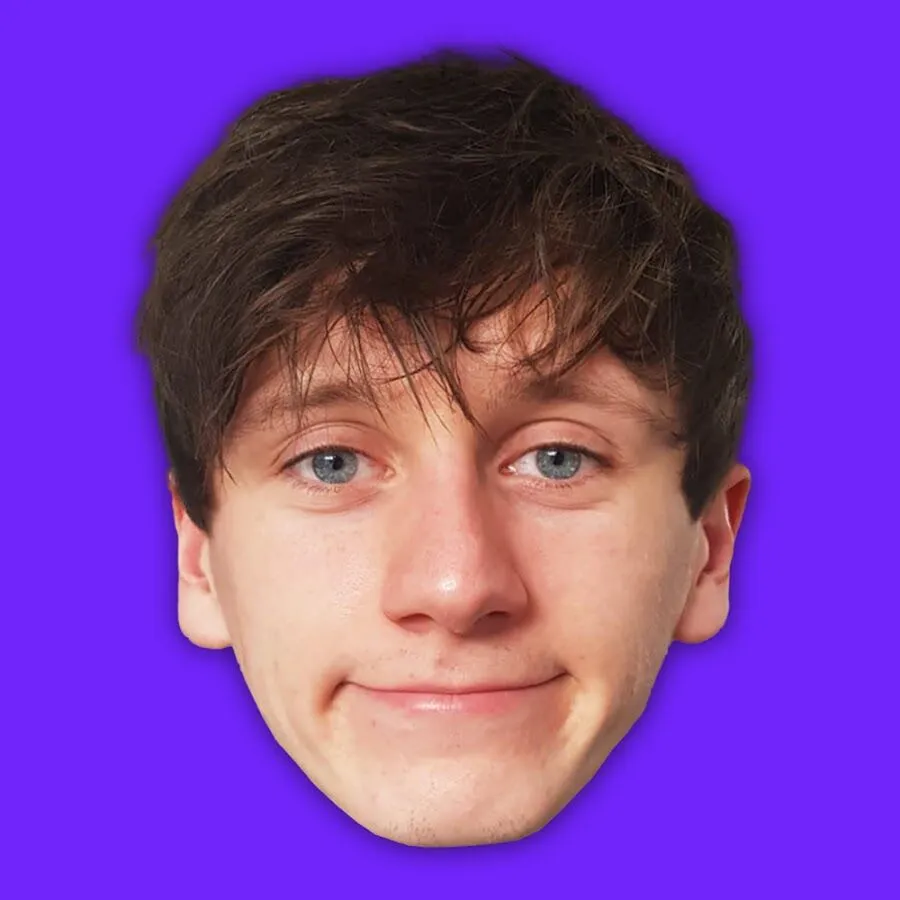
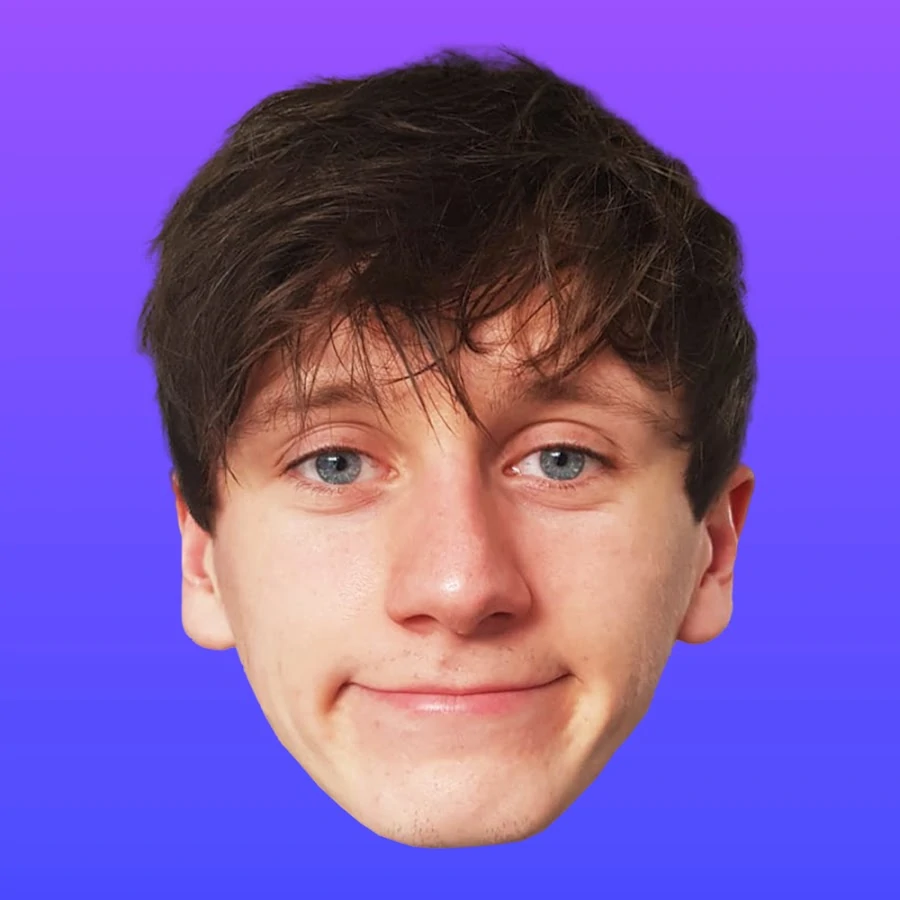
Updated footer + new SVGs

diff --git a/pages/other/changelog.html b/pages/other/changelog.html
@@ -1,2 +1,3 @@
-<!DOCTYPE html><html><head><title>Changelog</title><link rel=stylesheet href=/css/pages/changelog.css /></head> <!-- Only edit line 2 -->
-<h1 id=changelog>Changelog</h1><p>There's no point in explaining the purpose of this file.<br>Only counts from Preview 2 onwards<h1 id=latest-commit>Latest Commit</h1><h2 id=preview-20>Preview 20</h2><ul><li>Released: <code>16/07/2022</code><li>Description: <strong>Updated data graphs</strong></ul><h3 id=modifications>Modifications</h3><ul><li>images<ul><li>Updated the following channels to the latest gradient:<ul><li>Jack Massey Welsh (Tesla)<li><em>50 Character Long Channel Name</em><li>JSAG<li>JSAL<li>JSAS</ul></ul><li>all <code>sub_count</code> and <code>view_count</code> pages<ul><li>Updated the data chart to the channels colour palette</ul></ul><h1 id=commit-history>Commit History</h1><h2 id=preview-19>Preview 19</h2><ul><li>Released: <code>15/07/2022</code><li>Description: <strong>View Count Pages active for all channels</strong></ul><h2 id=preview-18>Preview 18</h2><ul><li>Released: <code>14/07/2022</code><li>Description: <strong>Added View Count Page + Updated homepage</strong></ul><h3 id=modifications>Modifications</h3><ul><li><code>index.html</code><ul><li>Added <code>type="button"</code> attribute to all buttons<li>Disabled and enabled some buttons<li>Added redirect functions to buttons for future use</ul><li><code>navbar.html</code><ul><li>Added an <em>other</em> dropdown to navbar<li>Added "<em>coming soon</em>" note for links with <code>javascript:void(0)</code> as their redirect</ul></ul><h3 id=additions>Additions</h3><ul><li>View Pages<ul><li>Only added for JSAL atm</ul></ul><h2 id=preview-17>Preview 17</h2><ul><li>Released: <code>12/07/2022</code><li>Description: <strong>Updated Navbar</strong></ul><h3 id=modifications>Modifications</h3><ul><li><code>index.html</code><ul><li>Replaced the message <strong>Navbar under development. Site not optimsied for mobile</strong> with <strong>NOTE: There is no mobile support (yet)</strong><li>This message is now written in the navbar, not in index.html</ul></ul><h2 id=preview-16>Preview 16</h2><ul><li>Released: <code>11/07/2022</code><li>Description: <strong>Minor CSS improvements</strong></ul><h3 id=additions>Additions</h3><ul><li><code>/pages/*/index.html</code><ul><li>Added for navigation</ul></ul><h3 id=modifications>Modifications</h3><ul><li><code>JackSucksAtPopUpPirate.webp</code><ul><li>Updated to the latest PFP with the gradient</ul><li><code>footer.js</code><ul><li>Updated footer a bit</ul><li><code>navbar.js</code><ul><li>Added dropdown menus for better navigation and aesthetics</ul><li><code>index.html</code><ul><li>Removed <strong>NEW</strong> tag from <em>Sub Count</em> buttons</ul></ul><h2 id=preview-15>Preview 15</h2><ul><li>Released: <code>07/07/2022</code><li>Description: <strong>Released Subscriber Count page for all channels</strong></ul><h3 id=modifications>Modifications</h3><ul><li>CSS<ul><li><code>abbr[title]</code> now has effect in <code>sub_count.css</code><li>New toggle button in <code>global.css</code><ul><li><em>Not fully implemented yet</em></ul></ul><li><code>/index.html</code><ul><li>All <code>Subscriber Count</code> buttons are no longer disabled</ul><li><code>navbar.js</code> and <code>footer.js</code><ul><li>Only one <code>document.write()</code> function as opposed to multiple for every line</ul></ul><h3 id=additions>Additions</h3><ul><li>All channels have their own JavaScript and HTML files<ul><li>Really nothing else to mention</ul></ul><h2 id=preview-14>Preview 14</h2><ul><li>Released: <code>18/06/2022</code><li>Description: <strong>Updated Subscriber Count pages</strong></ul><h2 id=preview-13>Preview 13</h2><ul><li><em>Version</em>: <code>C13-20220616.2</code><li>Released: <code>16/06/2022</code><li>Description: <strong>Updated some CSS</strong></ul><h2 id=preview-12>Preview 12</h2><ul><li><em>Version</em>: <code>C12-20220616</code><li>Released: <code>16/06/2022</code><li>Description: <strong>Updated images</strong><h3 id=modified>Modified</h3><li>images<ul><li>All images with <code>.jpg</code> are now <code>.webp</code></ul><li>css<ul><li>All images now have drop shadows (may conflict)<li>All images on <code>index.html</code> have rounded corners</ul></ul><h2 id=preview-11>Preview 11</h2><ul><li><em>Version</em>: <code>C11-20220615.2</code><li>Released: <code>15/06/2022</code><li>Description: <strong>Added error pages + Minor changes</strong></ul><h2 id=preview-10>Preview 10</h2><ul><li><em>Version</em>: <code>C10-20220615</code><li>Released: <code>15/06/2022</code><li>Description: <strong>Custom scrollbar + footer and header improvements</strong></ul><h2 id=preview-9>Preview 9</h2><ul><li><em>Version</em>: <code>C9-20220609</code><li>Released: <code>09/06/2022</code></ul><h2 id=preview-8>Preview 8</h2><ul><li><em>Version</em>: <code>C8-20220605</code><li>Released: <code>05/06/2022</code><li>Description: <strong>Improvements to Sub Count pages</strong></ul><h3 id=modified>Modified</h3><p>Not a lot of stuff. Mainly CSS<h2 id=preview-8-1>Preview 8.1</h2><p>Edited <code>.GITIGNORE</code> to get rid of VSCode files. Not needed<h2 id=preview-8-2>Preview 8.2</h2><p>Edited <code>changelog.md</code> to fix formatting issues<h2 id=preview-7>Preview 7</h2><ul><li><em>Version</em>: <code>C7-20220604.2</code><li>Released: <code>04/06/2022</code><li>Description: <strong>Initial work on some JS files</strong></ul><h3 id=modified>Modified</h3><ul><li><em>js\pages\index.js</em><ul><li>Added a new redirect function</ul><li><em>pages\channel_info\jsal\index.html</em><ul><li>Added a 'days since' function</ul></ul><h3 id=additions>Additions</h3><ul><li>A lot of JavaScript files, basically doing basic work<ul><li><em>js\channels\jsal.js</em><li><em>js\fetch_data\subs\jsal.js</em></ul><li><em>pages\sub_count\jsal\index.html</em><ul><li>Alpha page. Coming soon</ul></ul><h2 id=preview-6>Preview 6</h2><ul><li><em>Version</em>: <code>C6-20220604</code><li>Released: <code>04/06/2022</code><li>Description: <strong>Minor channel info tweaks + misc. updates</strong></ul><h3 id=modified>Modified</h3><ul><li><em>pages/channel_info/jsal/index.html</em>:<ul><li>Some channel info additions</ul><li><em>global.css</em><ul><li>Updated CSS for all items</ul></ul><h3 id=additions>Additions</h3><ul><li><em>server.ps1</em><ul><li>Automates activating the Python localhost server</ul><li><em>compatability.md</em><ul><li>Checks if features are supported or not<li>To be implemented in some way or another</ul></ul><h2 id=preview-5>Preview 5</h2><ul><li><em>Version</em>: <code>C5-20220531</code><li>Released: <code>31/05/2022</code><li>Description: <strong>Updated some images + proper disabled buttons</strong></ul><h3 id=modified>Modified</h3><ul><li><em>/index.html</em>:<ul><li>All buttons disabled, apart from pages under development</ul><li><em>home.css</em><ul><li>CSS for disabled buttons<ul><li>NOTE: Buttons get functional appearance, but are disabled if they are "coming soon"</ul></ul><li><em>ejsafc.jpg</em><ul><li>Got a compressed version from Google, saving around 80-90% of storage space</ul></ul><h3 id=other>Other</h3><ul><li>Version strings on this file are <em>[Commit Number]-[YYYY][MM][DD]</em><li>Yes, I did forget Commits <em>3</em> and <em>4</em></ul><h2 id=preview-2>Preview 2</h2><ul><li><em>Released: <code>29/05/2022</code></em><li>Description: <strong>Channel Info Page in Beta and some cleaning up</strong></ul><h3 id=changes>Changes</h3><ul><li>Channel Info Pages<ul><li>Only for JSAL<li>In BETA</ul><li>Cleaning up<ul><li>Replaced some JS function with abbr<li>Added newlines at the end of some files (to shut up GitHub)</ul></ul>
+<!DOCTYPE html><html><head><title>Changelog</title><link rel=stylesheet href=/css/pages/changelog.css /></head><body> <!-- Only edit line 2 -->
+<h1 id=changelog>Changelog</h1><p>There's no point in explaining the purpose of this file.<br>Only counts from Preview 2 onwards<h1 id=latest-commit>Latest Commit</h1><h2 id=preview-21>Preview 21</h2><ul><li>Released: <code>17/07/2022</code><li>Description: <strong>Updated footer + new SVGs</strong></ul><h3 id=modifications>Modifications</h3><ul><li>Profile Pictures<ul><li>Updated <em>JackSucksAtClips</em></ul><li>All <code>sub_count</code> and <code>view_count</code> pages<ul><li>Updated text in <code>subCountText</code><li>Removed line break which would appear after data was fetched</ul></ul><h3 id=additions>Additions</h3><ul><li>Images<ul><li><code>.svg</code>s for:<ul><li>GitHub<li>Instagram<li>Reddit<li>Twitter<li>YouTube</ul><li>Added for later use</ul></ul><h1 id=commit-history>Commit History</h1><h2 id=preview-20>Preview 20</h2><ul><li>Released: <code>16/07/2022</code><li>Description: <strong>Updated data graphs</strong></ul><h3 id=modifications>Modifications</h3><ul><li>images<ul><li>Updated the following channels to the latest gradient:<ul><li>Jack Massey Welsh (Tesla)<li><em>50 Character Long Channel Name</em><li>JSAG<li>JSAL<li>JSAS</ul></ul><li>all <code>sub_count</code> and <code>view_count</code> pages<ul><li>Updated the data chart to the channels colour palette</ul></ul><h2 id=preview-19>Preview 19</h2><ul><li>Released: <code>15/07/2022</code><li>Description: <strong>View Count Pages active for all channels</strong></ul><h2 id=preview-18>Preview 18</h2><ul><li>Released: <code>14/07/2022</code><li>Description: <strong>Added View Count Page + Updated homepage</strong></ul><h3 id=modifications>Modifications</h3><ul><li><code>index.html</code><ul><li>Added <code>type="button"</code> attribute to all buttons<li>Disabled and enabled some buttons<li>Added redirect functions to buttons for future use</ul><li><code>navbar.html</code><ul><li>Added an <em>other</em> dropdown to navbar<li>Added "<em>coming soon</em>" note for links with <code>javascript:void(0)</code> as their redirect</ul></ul><h3 id=additions>Additions</h3><ul><li>View Pages<ul><li>Only added for JSAL atm</ul></ul><h2 id=preview-17>Preview 17</h2><ul><li>Released: <code>12/07/2022</code><li>Description: <strong>Updated Navbar</strong></ul><h3 id=modifications>Modifications</h3><ul><li><code>index.html</code><ul><li>Replaced the message <strong>Navbar under development. Site not optimsied for mobile</strong> with <strong>NOTE: There is no mobile support (yet)</strong><li>This message is now written in the navbar, not in index.html</ul></ul><h2 id=preview-16>Preview 16</h2><ul><li>Released: <code>11/07/2022</code><li>Description: <strong>Minor CSS improvements</strong></ul><h3 id=additions>Additions</h3><ul><li><code>/pages/*/index.html</code><ul><li>Added for navigation</ul></ul><h3 id=modifications>Modifications</h3><ul><li><code>JackSucksAtPopUpPirate.webp</code><ul><li>Updated to the latest PFP with the gradient</ul><li><code>footer.js</code><ul><li>Updated footer a bit</ul><li><code>navbar.js</code><ul><li>Added dropdown menus for better navigation and aesthetics</ul><li><code>index.html</code><ul><li>Removed <strong>NEW</strong> tag from <em>Sub Count</em> buttons</ul></ul><h2 id=preview-15>Preview 15</h2><ul><li>Released: <code>07/07/2022</code><li>Description: <strong>Released Subscriber Count page for all channels</strong></ul><h3 id=modifications>Modifications</h3><ul><li>CSS<ul><li><code>abbr[title]</code> now has effect in <code>sub_count.css</code><li>New toggle button in <code>global.css</code><ul><li><em>Not fully implemented yet</em></ul></ul><li><code>/index.html</code><ul><li>All <code>Subscriber Count</code> buttons are no longer disabled</ul><li><code>navbar.js</code> and <code>footer.js</code><ul><li>Only one <code>document.write()</code> function as opposed to multiple for every line</ul></ul><h3 id=additions>Additions</h3><ul><li>All channels have their own JavaScript and HTML files<ul><li>Really nothing else to mention</ul></ul><h2 id=preview-14>Preview 14</h2><ul><li>Released: <code>18/06/2022</code><li>Description: <strong>Updated Subscriber Count pages</strong></ul><h2 id=preview-13>Preview 13</h2><ul><li><em>Version</em>: <code>C13-20220616.2</code><li>Released: <code>16/06/2022</code><li>Description: <strong>Updated some CSS</strong></ul><h2 id=preview-12>Preview 12</h2><ul><li><em>Version</em>: <code>C12-20220616</code><li>Released: <code>16/06/2022</code><li>Description: <strong>Updated images</strong><h3 id=modified>Modified</h3><li>images<ul><li>All images with <code>.jpg</code> are now <code>.webp</code></ul><li>css<ul><li>All images now have drop shadows (may conflict)<li>All images on <code>index.html</code> have rounded corners</ul></ul><h2 id=preview-11>Preview 11</h2><ul><li><em>Version</em>: <code>C11-20220615.2</code><li>Released: <code>15/06/2022</code><li>Description: <strong>Added error pages + Minor changes</strong></ul><h2 id=preview-10>Preview 10</h2><ul><li><em>Version</em>: <code>C10-20220615</code><li>Released: <code>15/06/2022</code><li>Description: <strong>Custom scrollbar + footer and header improvements</strong></ul><h2 id=preview-9>Preview 9</h2><ul><li><em>Version</em>: <code>C9-20220609</code><li>Released: <code>09/06/2022</code></ul><h2 id=preview-8>Preview 8</h2><ul><li><em>Version</em>: <code>C8-20220605</code><li>Released: <code>05/06/2022</code><li>Description: <strong>Improvements to Sub Count pages</strong></ul><h3 id=modified>Modified</h3><p>Not a lot of stuff. Mainly CSS<h2 id=preview-8-1>Preview 8.1</h2><p>Edited <code>.GITIGNORE</code> to get rid of VSCode files. Not needed<h2 id=preview-8-2>Preview 8.2</h2><p>Edited <code>changelog.md</code> to fix formatting issues<h2 id=preview-7>Preview 7</h2><ul><li><em>Version</em>: <code>C7-20220604.2</code><li>Released: <code>04/06/2022</code><li>Description: <strong>Initial work on some JS files</strong></ul><h3 id=modified>Modified</h3><ul><li><em>js\pages\index.js</em><ul><li>Added a new redirect function</ul><li><em>pages\channel_info\jsal\index.html</em><ul><li>Added a 'days since' function</ul></ul><h3 id=additions>Additions</h3><ul><li>A lot of JavaScript files, basically doing basic work<ul><li><em>js\channels\jsal.js</em><li><em>js\fetch_data\subs\jsal.js</em></ul><li><em>pages\sub_count\jsal\index.html</em><ul><li>Alpha page. Coming soon</ul></ul><h2 id=preview-6>Preview 6</h2><ul><li><em>Version</em>: <code>C6-20220604</code><li>Released: <code>04/06/2022</code><li>Description: <strong>Minor channel info tweaks + misc. updates</strong></ul><h3 id=modified>Modified</h3><ul><li><em>pages/channel_info/jsal/index.html</em>:<ul><li>Some channel info additions</ul><li><em>global.css</em><ul><li>Updated CSS for all items</ul></ul><h3 id=additions>Additions</h3><ul><li><em>server.ps1</em><ul><li>Automates activating the Python localhost server</ul><li><em>compatability.md</em><ul><li>Checks if features are supported or not<li>To be implemented in some way or another</ul></ul><h2 id=preview-5>Preview 5</h2><ul><li><em>Version</em>: <code>C5-20220531</code><li>Released: <code>31/05/2022</code><li>Description: <strong>Updated some images + proper disabled buttons</strong></ul><h3 id=modified>Modified</h3><ul><li><em>/index.html</em>:<ul><li>All buttons disabled, apart from pages under development</ul><li><em>home.css</em><ul><li>CSS for disabled buttons<ul><li>NOTE: Buttons get functional appearance, but are disabled if they are "coming soon"</ul></ul><li><em>ejsafc.jpg</em><ul><li>Got a compressed version from Google, saving around 80-90% of storage space</ul></ul><h3 id=other>Other</h3><ul><li>Version strings on this file are <em>[Commit Number]-[YYYY][MM][DD]</em><li>Yes, I did forget Commits <em>3</em> and <em>4</em></ul><h2 id=preview-2>Preview 2</h2><ul><li><em>Released: <code>29/05/2022</code></em><li>Description: <strong>Channel Info Page in Beta and some cleaning up</strong></ul><h3 id=changes>Changes</h3><ul><li>Channel Info Pages<ul><li>Only for JSAL<li>In BETA</ul><li>Cleaning up<ul><li>Replaced some JS function with abbr<li>Added newlines at the end of some files (to shut up GitHub)</ul></ul></p></p></p></p>
+</body>

diff --git a/write_html/footer.html b/write_html/footer.html
@@ -1,10 +1,37 @@
 <link rel="stylesheet" href="/css/global.css">
 
-<footer>
+<!-- <footer>
     <p id="footerNote">Note: This site is made by "Galvin" from scratch. Bugs are prone to appear<br>This also applies to the bot!<br>Footer is under development</p>
     <p>Useful links:</p>
-    <!--<a href="https://github.com/GalvinPython/jsalstats-site" class="footerNote">View Repo</a>-->
+    <a href="https://github.com/GalvinPython/jsalstats-site" class="footerNote">View Repo</a>
     <a href="https://github.com/GalvinPython/galvinpython.github.io" class="footerNote">View Repo (Temp)</a><br>
     <a href="mailto:redblockyt63@gmail.com">Email</a>
     <p><a href="https://twitter.com/egalvinyt">Twitter (Personal)</a> <a href="https://twitter.com/jsalstats">Twitter (JSALStats)</a></p>
+</footer> -->
+<br>
+<footer>
+    <div class="footCol">
+        <div class="footDiv">
+            <h3>Socials</h3>
+            <a href="https://instagram.com/evan.galvin05">Instagram (@evan.galvin05)</a><br>
+            <a href="https://twitter.com/egalvinyt">Twitter (@egalvinyt)</a><br>
+            <a href="https://twitter.com/jsalstats">Twitter (@jsalstats)</a><br>
+        </div>
+        <div class="footDiv">
+            <h3>Jacks' Socials</h3>
+            <a href="https://instagram.com/jackmasseywelsh">Instagram (@jackmasseywelsh)</a><br>
+            <a href="https://twitter.com/jackmasseywelsh">Twitter (@jackmasseywelsh)</a><br>
+        </div>
+        <div class="footDiv">
+            <h3>Other Links</h3>
+            <a href="https://github.com/GalvinPython/galvinpython.github.io">GitHub</a><br>
+            <a href="https://reddit.com/r/jacksucksatlife">Reddit</a><br>
+        </div>
+        <div class="footDiv">
+            <h3>Overview</h3>
+            <a href="/">Home</a>
+        </div>
+    </div>
+    <br>
+    <p class="footerNote">Note: The site and bot are maintained by GalvinPython. This site is not fully released, so expect some problems</p>
 </footer>

diff --git a/js/write_html/footer.js b/js/write_html/footer.js
@@ -1,1 +1,1 @@
-document.write('<footer><p id=footerNote>Note: This site is made by "Galvin" from scratch. Bugs are prone to appear<br />This also applies to the bot!<br />Footer is under development</p><p>Useful links:</p><a href=https://github.com/GalvinPython/galvinpython.github.io class=footerNote>View Repo (Temp)</a><br /> <a href=mailto:redblockyt63@gmail.com>Email</a> <p><a href=https://twitter.com/egalvinyt>Twitter (Personal)</a> <a href=https://twitter.com/jsalstats>Twitter (JSALStats)</a></p></footer>')
+document.write('<br><footer><div class=footCol><div class=footDiv><h3>Socials</h3><a href=https://instagram.com/evan.galvin05>Instagram (@evan.galvin05)</a><br><a href=https://twitter.com/egalvinyt>Twitter (@egalvinyt)</a><br><a href=https://twitter.com/jsalstats>Twitter (@jsalstats)</a><br></div><div class=footDiv><h3>Jacks\' Socials</h3><a href=https://instagram.com/jackmasseywelsh>Instagram (@jackmasseywelsh)</a><br><a href=https://twitter.com/jackmasseywelsh>Twitter (@jackmasseywelsh)</a><br></div><div class=footDiv><h3>Other Links</h3><a href=https://github.com/GalvinPython/galvinpython.github.io>GitHub</a><br><a href=https://reddit.com/r/jacksucksatlife>Reddit</a><br></div><div class=footDiv><h3>Overview</h3><a href=/ >Home</a></div></div><br><p class=footerNote>Note: The site and bot are maintained by GalvinPython. This site is not fully released, so expect some problems</footer>')

diff --git a/pages/sub_count/ejsafc/index.html b/pages/sub_count/ejsafc/index.html
@@ -36,8 +36,7 @@
                     <h5>Overview</h5>
                     <div id="subCount">
                         <b>Subscriber Count <abbr title="note: this data is not accurate, so take this with a grain of salt">(Estimated)</abbr></b>
-                        <p id="subCountText"></p>
-                        <br>
+                        <p id="subCountText">Loading...</p>
                         <b>Subscriber Count (YouTube)</b>
                         <p><i>Coming Soon</i></p>
                     </div>

diff --git a/pages/sub_count/epic/index.html b/pages/sub_count/epic/index.html
@@ -36,8 +36,7 @@
                     <h5>Overview</h5>
                     <div id="subCount">
                         <b>Subscriber Count <abbr title="note: this data is not accurate, so take this with a grain of salt">(Estimated)</abbr></b>
-                        <p id="subCountText"></p>
-                        <br>
+                        <p id="subCountText">Loading...</p>
                         <b>Subscriber Count (YouTube)</b>
                         <p><i>Coming Soon</i></p>
                     </div>

diff --git a/pages/sub_count/i/index.html b/pages/sub_count/i/index.html
@@ -36,8 +36,7 @@
                     <h5>Overview</h5>
                     <div id="subCount">
                         <b>Subscriber Count <abbr title="note: this data is not accurate, so take this with a grain of salt">(Estimated)</abbr></b>
-                        <p id="subCountText"></p>
-                        <br>
+                        <p id="subCountText">Loading...</p>
                         <b>Subscriber Count (YouTube)</b>
                         <p><i>Coming Soon</i></p>
                     </div>

diff --git a/pages/sub_count/jmw/index.html b/pages/sub_count/jmw/index.html
@@ -36,8 +36,7 @@
                     <h5>Overview</h5>
                     <div id="subCount">
                         <b>Subscriber Count <abbr title="note: this data is not accurate, so take this with a grain of salt">(Estimated)</abbr></b>
-                        <p id="subCountText"></p>
-                        <br>
+                        <p id="subCountText">Loading...</p>
                         <b>Subscriber Count (YouTube)</b>
                         <p><i>Coming Soon</i></p>
                     </div>

diff --git a/pages/sub_count/jsac/index.html b/pages/sub_count/jsac/index.html
@@ -36,8 +36,7 @@
                     <h5>Overview</h5>
                     <div id="subCount">
                         <b>Subscriber Count <abbr title="note: this data is not accurate, so take this with a grain of salt">(Estimated)</abbr></b>
-                        <p id="subCountText"></p>
-                        <br>
+                        <p id="subCountText">Loading...</p>
                         <b>Subscriber Count (YouTube)</b>
                         <p><i>Coming Soon</i></p>
                     </div>

diff --git a/pages/sub_count/jsae/index.html b/pages/sub_count/jsae/index.html
@@ -36,8 +36,7 @@
                     <h5>Overview</h5>
                     <div id="subCount">
                         <b>Subscriber Count <abbr title="note: this data is not accurate, so take this with a grain of salt">(Estimated)</abbr></b>
-                        <p id="subCountText"></p>
-                        <br>
+                        <p id="subCountText">Loading...</p>
                         <b>Subscriber Count (YouTube)</b>
                         <p><i>Coming Soon</i></p>
                     </div>

diff --git a/pages/sub_count/jsag/index.html b/pages/sub_count/jsag/index.html
@@ -36,8 +36,7 @@
                     <h5>Overview</h5>
                     <div id="subCount">
                         <b>Subscriber Count <abbr title="note: this data is not accurate, so take this with a grain of salt">(Estimated)</abbr></b>
-                        <p id="subCountText"></p>
-                        <br>
+                        <p id="subCountText">Loading...</p>
                         <b>Subscriber Count (YouTube)</b>
                         <p><i>Coming Soon</i></p>
                     </div>

diff --git a/pages/sub_count/jsal/index.html b/pages/sub_count/jsal/index.html
@@ -36,8 +36,7 @@
                     <h5>Overview</h5>
                     <div id="subCount">
                         <b>Subscriber Count <abbr title="note: this data is not accurate, so take this with a grain of salt">(Estimated)</abbr></b>
-                        <p id="subCountText"></p>
-                        <br>
+                        <p id="subCountText">Loading...</p>
                         <b>Subscriber Count (YouTube)</b>
                         <p><i>Coming Soon</i></p>
                     </div>

diff --git a/pages/sub_count/jsapup/index.html b/pages/sub_count/jsapup/index.html
@@ -36,8 +36,7 @@
                     <h5>Overview</h5>
                     <div id="subCount">
                         <b>Subscriber Count <abbr title="note: this data is not accurate, so take this with a grain of salt">(Estimated)</abbr></b>
-                        <p id="subCountText"></p>
-                        <br>
+                        <p id="subCountText">Loading...</p>
                         <b>Subscriber Count (YouTube)</b>
                         <p><i>Coming Soon</i></p>
                     </div>
